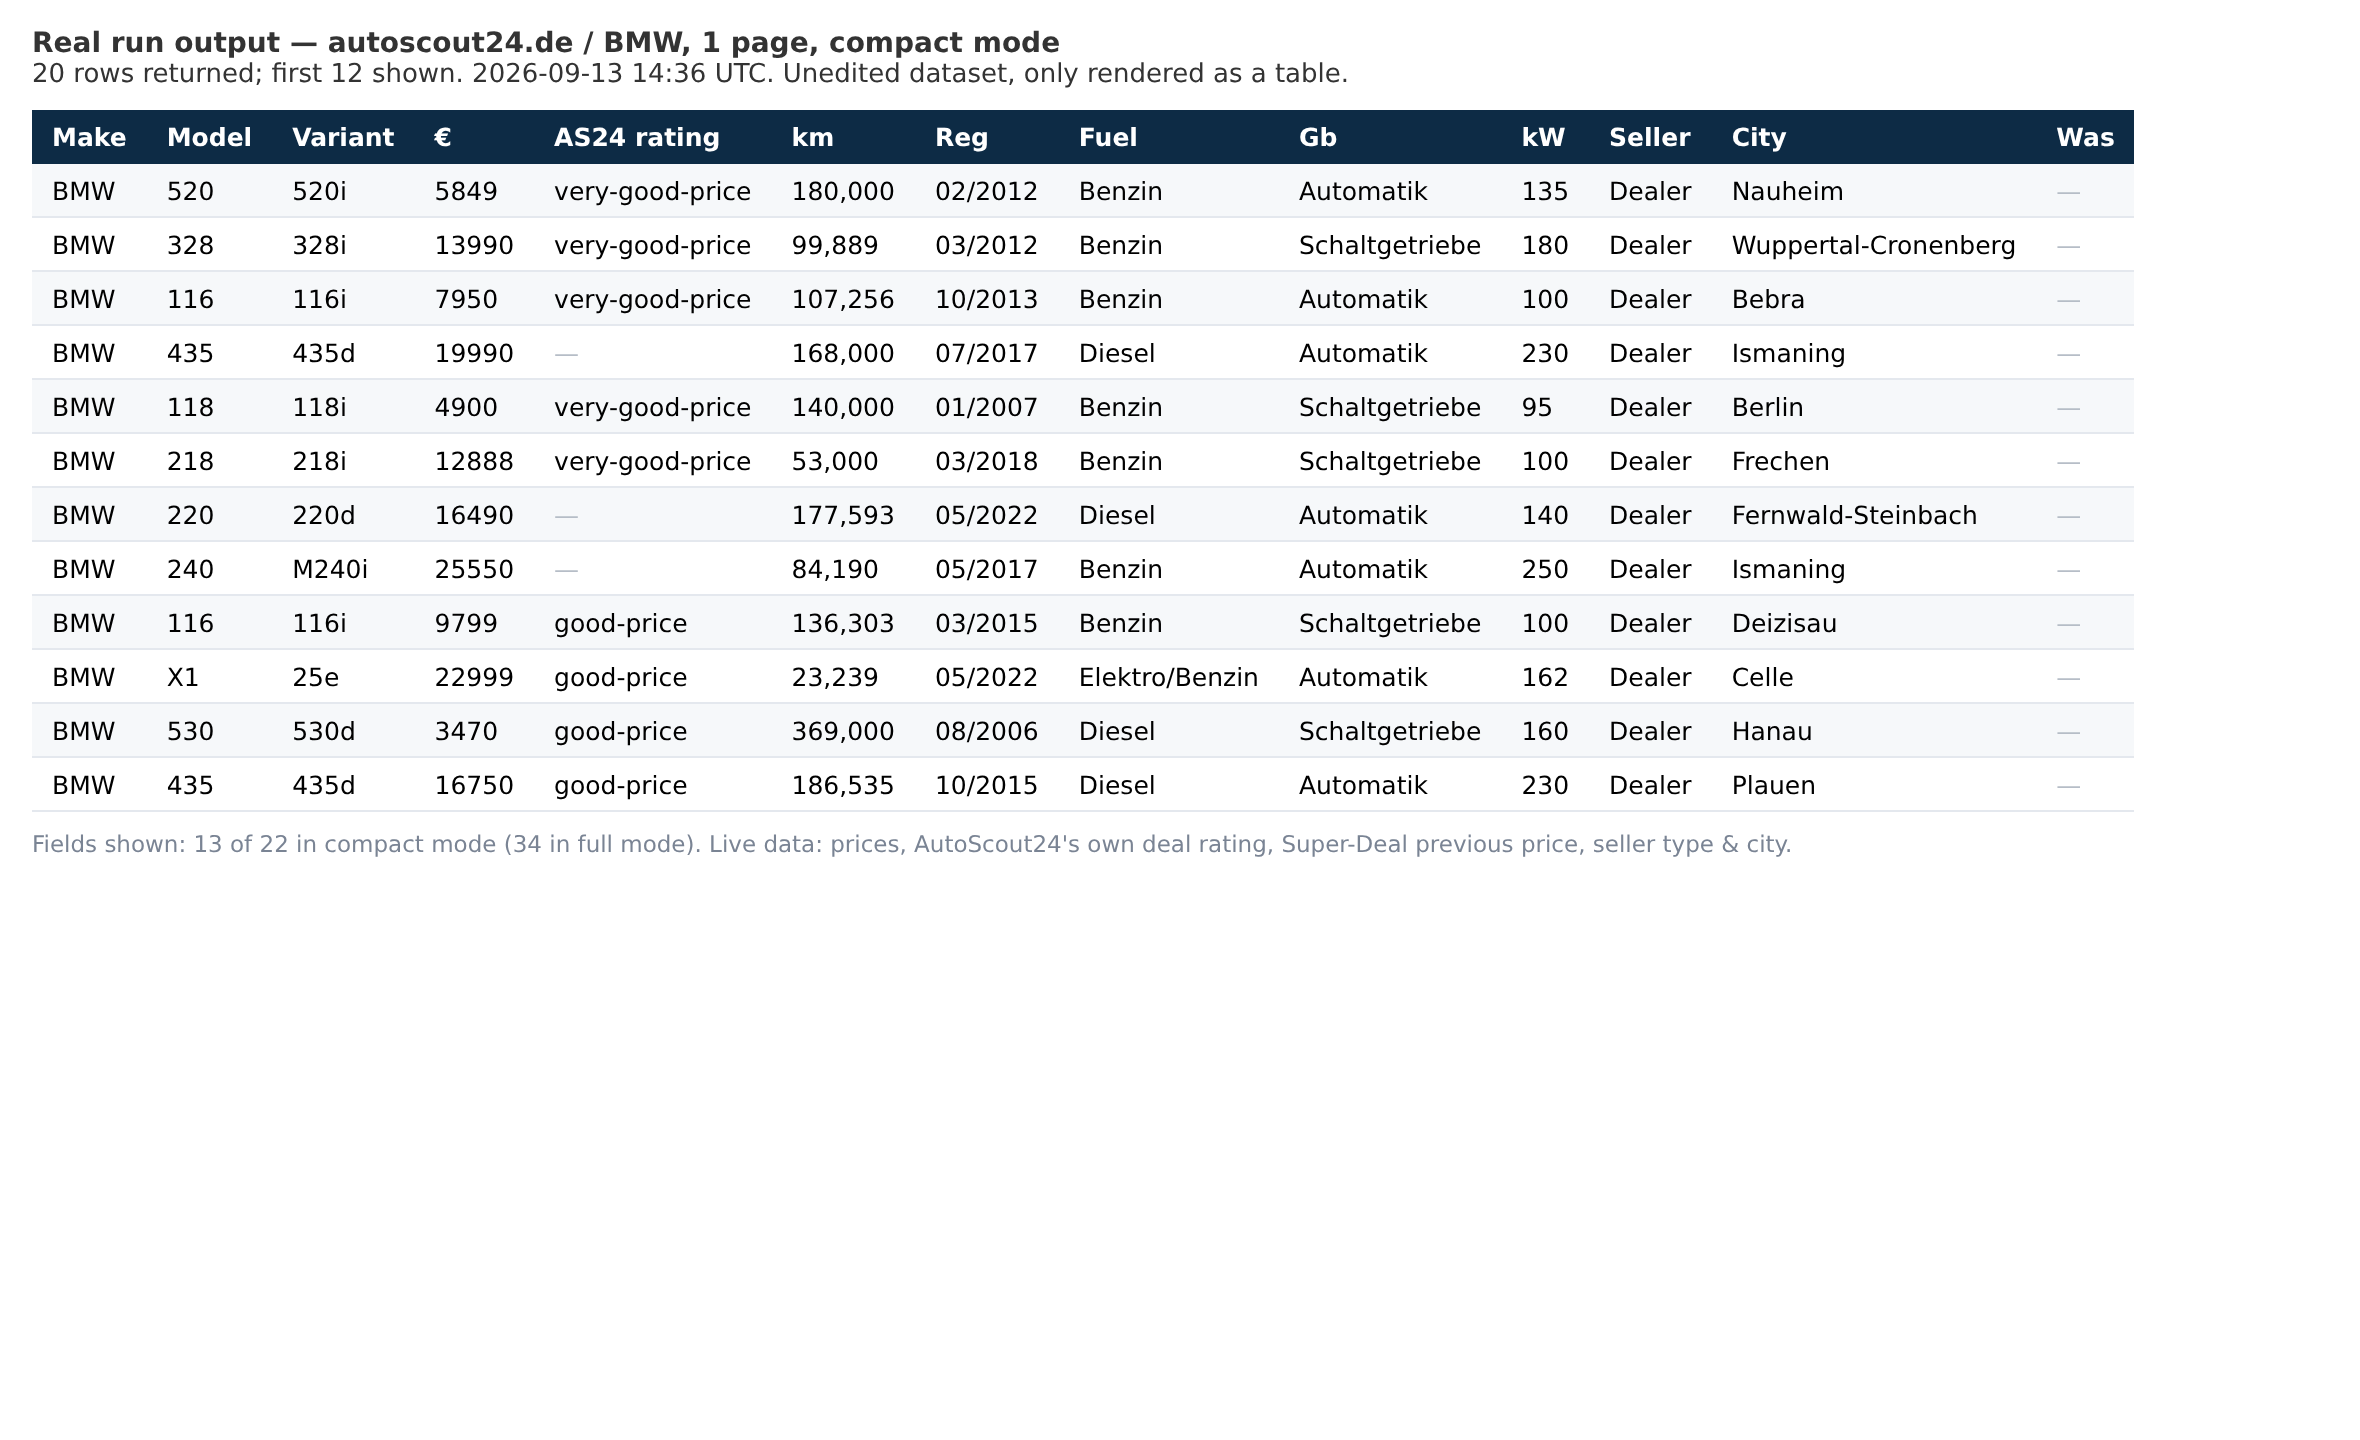
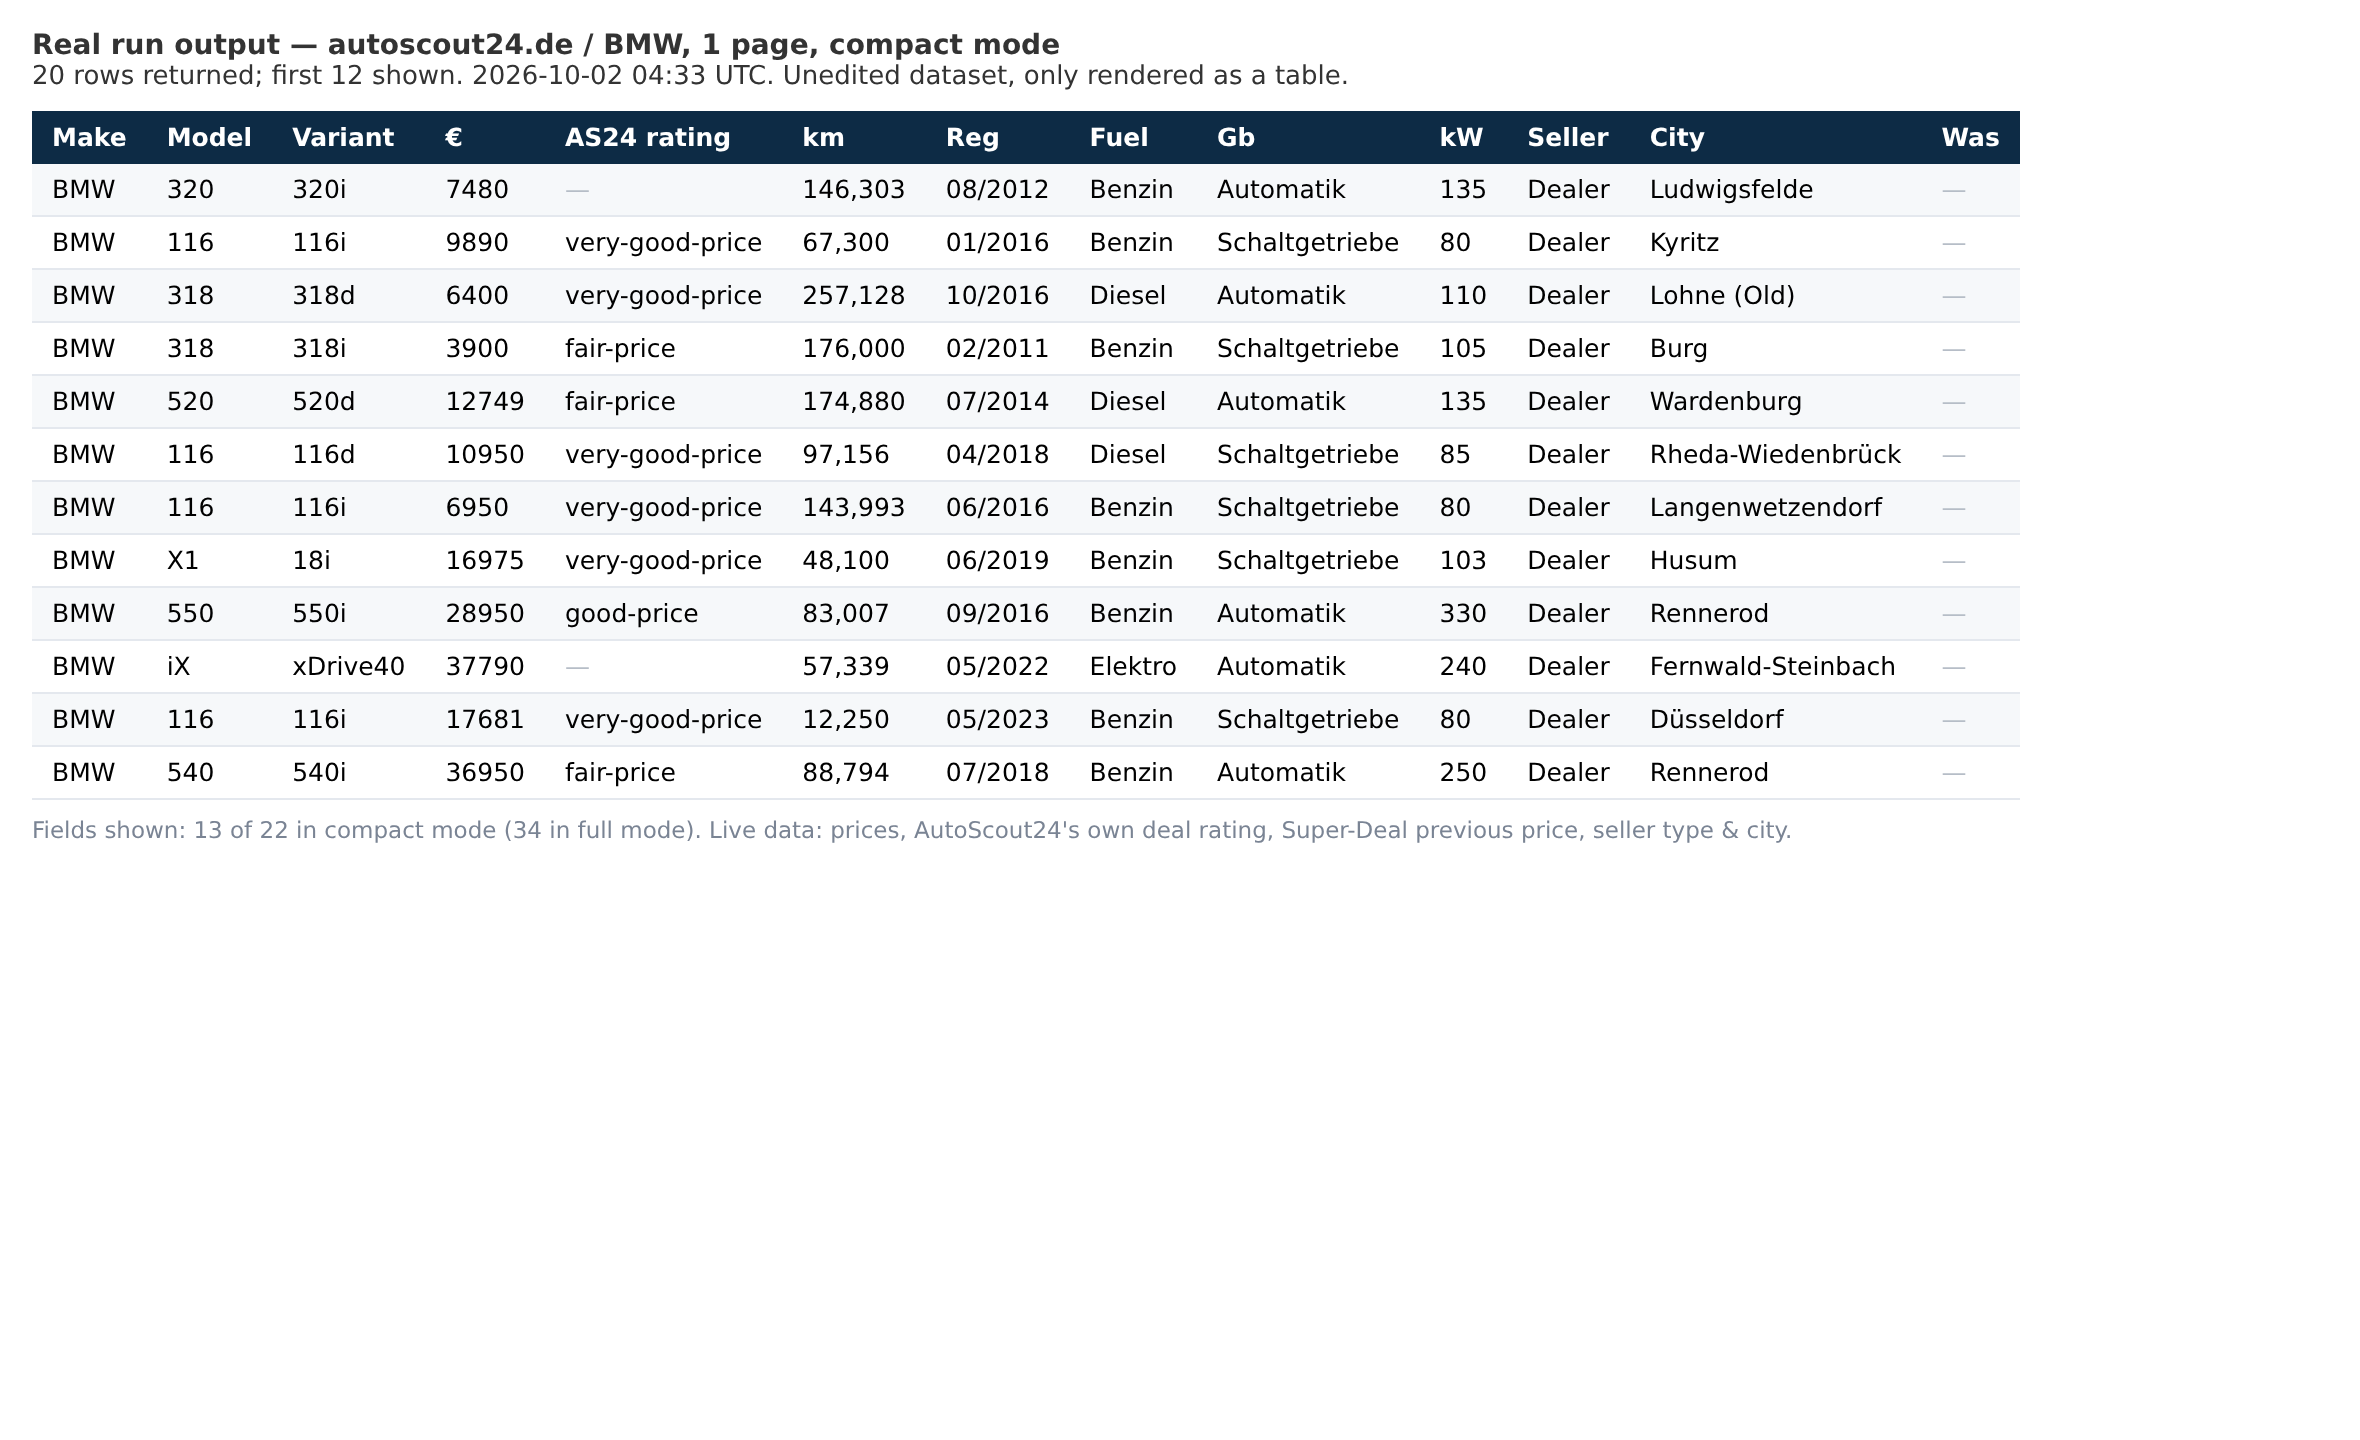
assets: as24 fresh sample (run RiCponcdNwtNaiXNu, 2026-10-02, 20 rows compact)

Changed region(s): [[0.0, 0.0312, 0.8661, 0.5938], [0.8352, 0.0625, 0.928, 0.125]]

diff --git a/assets/as24/output-sample.html b/assets/as24/output-sample.html
@@ -7,7 +7,7 @@ td{padding:5.5px 10px;border-bottom:1px solid #e4e8ee;white-space:nowrap}
 tr:nth-child(even) td{background:#f6f8fa}
 .n{color:#b6bdc7} .foot{font-size:11.5px;color:#7a8494;margin-top:9px}
 </style></head><body>
-<div class="cap"><b>Real run output — autoscout24.de / BMW, 1 page, compact mode</b><br>20 rows returned; first 12 shown. 2026-09-13 14:36 UTC. Unedited dataset, only rendered as a table.</div>
-<table><tr><th>Make</th><th>Model</th><th>Variant</th><th>€</th><th>AS24 rating</th><th>km</th><th>Reg</th><th>Fuel</th><th>Gb</th><th>kW</th><th>Seller</th><th>City</th><th>Was</th></tr><tr><td>BMW</td><td>520</td><td>520i</td><td>5849</td><td>very-good-price</td><td>180,000</td><td>02/2012</td><td>Benzin</td><td>Automatik</td><td>135</td><td>Dealer</td><td>Nauheim</td><td><span class="n">—</span></td></tr><tr><td>BMW</td><td>328</td><td>328i</td><td>13990</td><td>very-good-price</td><td>99,889</td><td>03/2012</td><td>Benzin</td><td>Schaltgetriebe</td><td>180</td><td>Dealer</td><td>Wuppertal-Cronenberg</td><td><span class="n">—</span></td></tr><tr><td>BMW</td><td>116</td><td>116i</td><td>7950</td><td>very-good-price</td><td>107,256</td><td>10/2013</td><td>Benzin</td><td>Automatik</td><td>100</td><td>Dealer</td><td>Bebra</td><td><span class="n">—</span></td></tr><tr><td>BMW</td><td>435</td><td>435d</td><td>19990</td><td><span class="n">—</span></td><td>168,000</td><td>07/2017</td><td>Diesel</td><td>Automatik</td><td>230</td><td>Dealer</td><td>Ismaning</td><td><span class="n">—</span></td></tr><tr><td>BMW</td><td>118</td><td>118i</td><td>4900</td><td>very-good-price</td><td>140,000</td><td>01/2007</td><td>Benzin</td><td>Schaltgetriebe</td><td>95</td><td>Dealer</td><td>Berlin</td><td><span class="n">—</span></td></tr><tr><td>BMW</td><td>218</td><td>218i</td><td>12888</td><td>very-good-price</td><td>53,000</td><td>03/2018</td><td>Benzin</td><td>Schaltgetriebe</td><td>100</td><td>Dealer</td><td>Frechen</td><td><span class="n">—</span></td></tr><tr><td>BMW</td><td>220</td><td>220d</td><td>16490</td><td><span class="n">—</span></td><td>177,593</td><td>05/2022</td><td>Diesel</td><td>Automatik</td><td>140</td><td>Dealer</td><td>Fernwald-Steinbach</td><td><span class="n">—</span></td></tr><tr><td>BMW</td><td>240</td><td>M240i</td><td>25550</td><td><span class="n">—</span></td><td>84,190</td><td>05/2017</td><td>Benzin</td><td>Automatik</td><td>250</td><td>Dealer</td><td>Ismaning</td><td><span class="n">—</span></td></tr><tr><td>BMW</td><td>116</td><td>116i</td><td>9799</td><td>good-price</td><td>136,303</td><td>03/2015</td><td>Benzin</td><td>Schaltgetriebe</td><td>100</td><td>Dealer</td><td>Deizisau</td><td><span class="n">—</span></td></tr><tr><td>BMW</td><td>X1</td><td>25e</td><td>22999</td><td>good-price</td><td>23,239</td><td>05/2022</td><td>Elektro/Benzin</td><td>Automatik</td><td>162</td><td>Dealer</td><td>Celle</td><td><span class="n">—</span></td></tr><tr><td>BMW</td><td>530</td><td>530d</td><td>3470</td><td>good-price</td><td>369,000</td><td>08/2006</td><td>Diesel</td><td>Schaltgetriebe</td><td>160</td><td>Dealer</td><td>Hanau</td><td><span class="n">—</span></td></tr><tr><td>BMW</td><td>435</td><td>435d</td><td>16750</td><td>good-price</td><td>186,535</td><td>10/2015</td><td>Diesel</td><td>Automatik</td><td>230</td><td>Dealer</td><td>Plauen</td><td><span class="n">—</span></td></tr></table>
+<div class="cap"><b>Real run output — autoscout24.de / BMW, 1 page, compact mode</b><br>20 rows returned; first 12 shown. 2026-10-02 04:33 UTC. Unedited dataset, only rendered as a table.</div>
+<table><tr><th>Make</th><th>Model</th><th>Variant</th><th>€</th><th>AS24 rating</th><th>km</th><th>Reg</th><th>Fuel</th><th>Gb</th><th>kW</th><th>Seller</th><th>City</th><th>Was</th></tr><tr><td>BMW</td><td>320</td><td>320i</td><td>7480</td><td><span class="n">—</span></td><td>146,303</td><td>08/2012</td><td>Benzin</td><td>Automatik</td><td>135</td><td>Dealer</td><td>Ludwigsfelde</td><td><span class="n">—</span></td></tr><tr><td>BMW</td><td>116</td><td>116i</td><td>9890</td><td>very-good-price</td><td>67,300</td><td>01/2016</td><td>Benzin</td><td>Schaltgetriebe</td><td>80</td><td>Dealer</td><td>Kyritz</td><td><span class="n">—</span></td></tr><tr><td>BMW</td><td>318</td><td>318d</td><td>6400</td><td>very-good-price</td><td>257,128</td><td>10/2016</td><td>Diesel</td><td>Automatik</td><td>110</td><td>Dealer</td><td>Lohne (Old)</td><td><span class="n">—</span></td></tr><tr><td>BMW</td><td>318</td><td>318i</td><td>3900</td><td>fair-price</td><td>176,000</td><td>02/2011</td><td>Benzin</td><td>Schaltgetriebe</td><td>105</td><td>Dealer</td><td>Burg</td><td><span class="n">—</span></td></tr><tr><td>BMW</td><td>520</td><td>520d</td><td>12749</td><td>fair-price</td><td>174,880</td><td>07/2014</td><td>Diesel</td><td>Automatik</td><td>135</td><td>Dealer</td><td>Wardenburg</td><td><span class="n">—</span></td></tr><tr><td>BMW</td><td>116</td><td>116d</td><td>10950</td><td>very-good-price</td><td>97,156</td><td>04/2018</td><td>Diesel</td><td>Schaltgetriebe</td><td>85</td><td>Dealer</td><td>Rheda-Wiedenbrück</td><td><span class="n">—</span></td></tr><tr><td>BMW</td><td>116</td><td>116i</td><td>6950</td><td>very-good-price</td><td>143,993</td><td>06/2016</td><td>Benzin</td><td>Schaltgetriebe</td><td>80</td><td>Dealer</td><td>Langenwetzendorf</td><td><span class="n">—</span></td></tr><tr><td>BMW</td><td>X1</td><td>18i</td><td>16975</td><td>very-good-price</td><td>48,100</td><td>06/2019</td><td>Benzin</td><td>Schaltgetriebe</td><td>103</td><td>Dealer</td><td>Husum</td><td><span class="n">—</span></td></tr><tr><td>BMW</td><td>550</td><td>550i</td><td>28950</td><td>good-price</td><td>83,007</td><td>09/2016</td><td>Benzin</td><td>Automatik</td><td>330</td><td>Dealer</td><td>Rennerod</td><td><span class="n">—</span></td></tr><tr><td>BMW</td><td>iX</td><td>xDrive40</td><td>37790</td><td><span class="n">—</span></td><td>57,339</td><td>05/2022</td><td>Elektro</td><td>Automatik</td><td>240</td><td>Dealer</td><td>Fernwald-Steinbach</td><td><span class="n">—</span></td></tr><tr><td>BMW</td><td>116</td><td>116i</td><td>17681</td><td>very-good-price</td><td>12,250</td><td>05/2023</td><td>Benzin</td><td>Schaltgetriebe</td><td>80</td><td>Dealer</td><td>Düsseldorf</td><td><span class="n">—</span></td></tr><tr><td>BMW</td><td>540</td><td>540i</td><td>36950</td><td>fair-price</td><td>88,794</td><td>07/2018</td><td>Benzin</td><td>Automatik</td><td>250</td><td>Dealer</td><td>Rennerod</td><td><span class="n">—</span></td></tr></table>
 <div class="foot">Fields shown: 13 of 22 in compact mode (34 in full mode). Live data: prices, AutoScout24's own deal rating, Super-Deal previous price, seller type &amp; city.</div>
 </body></html>
